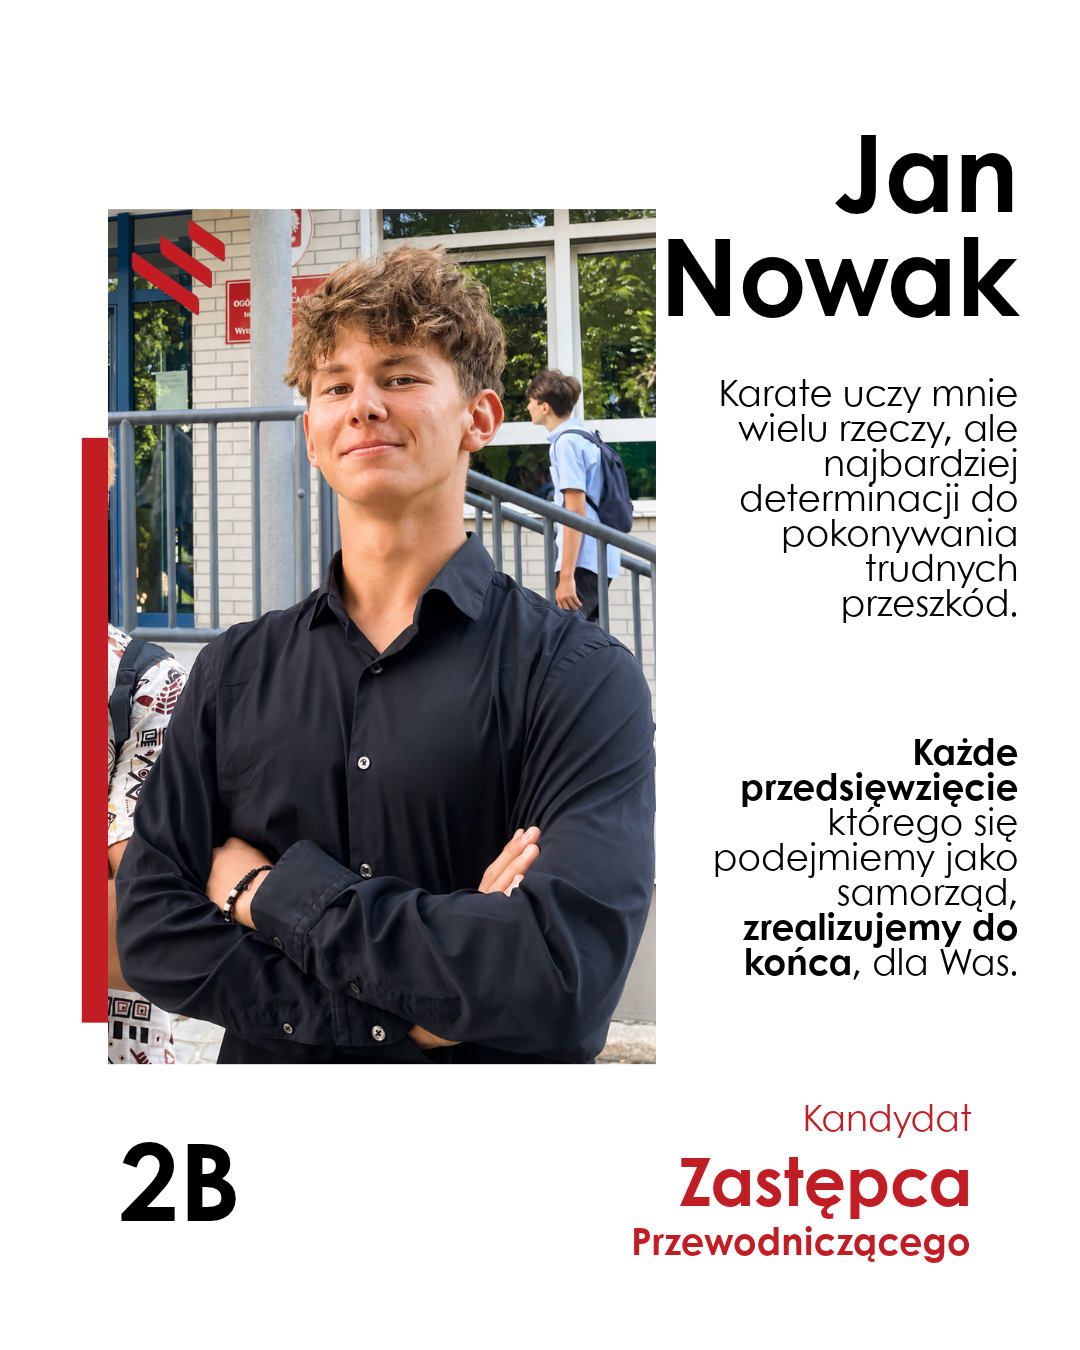
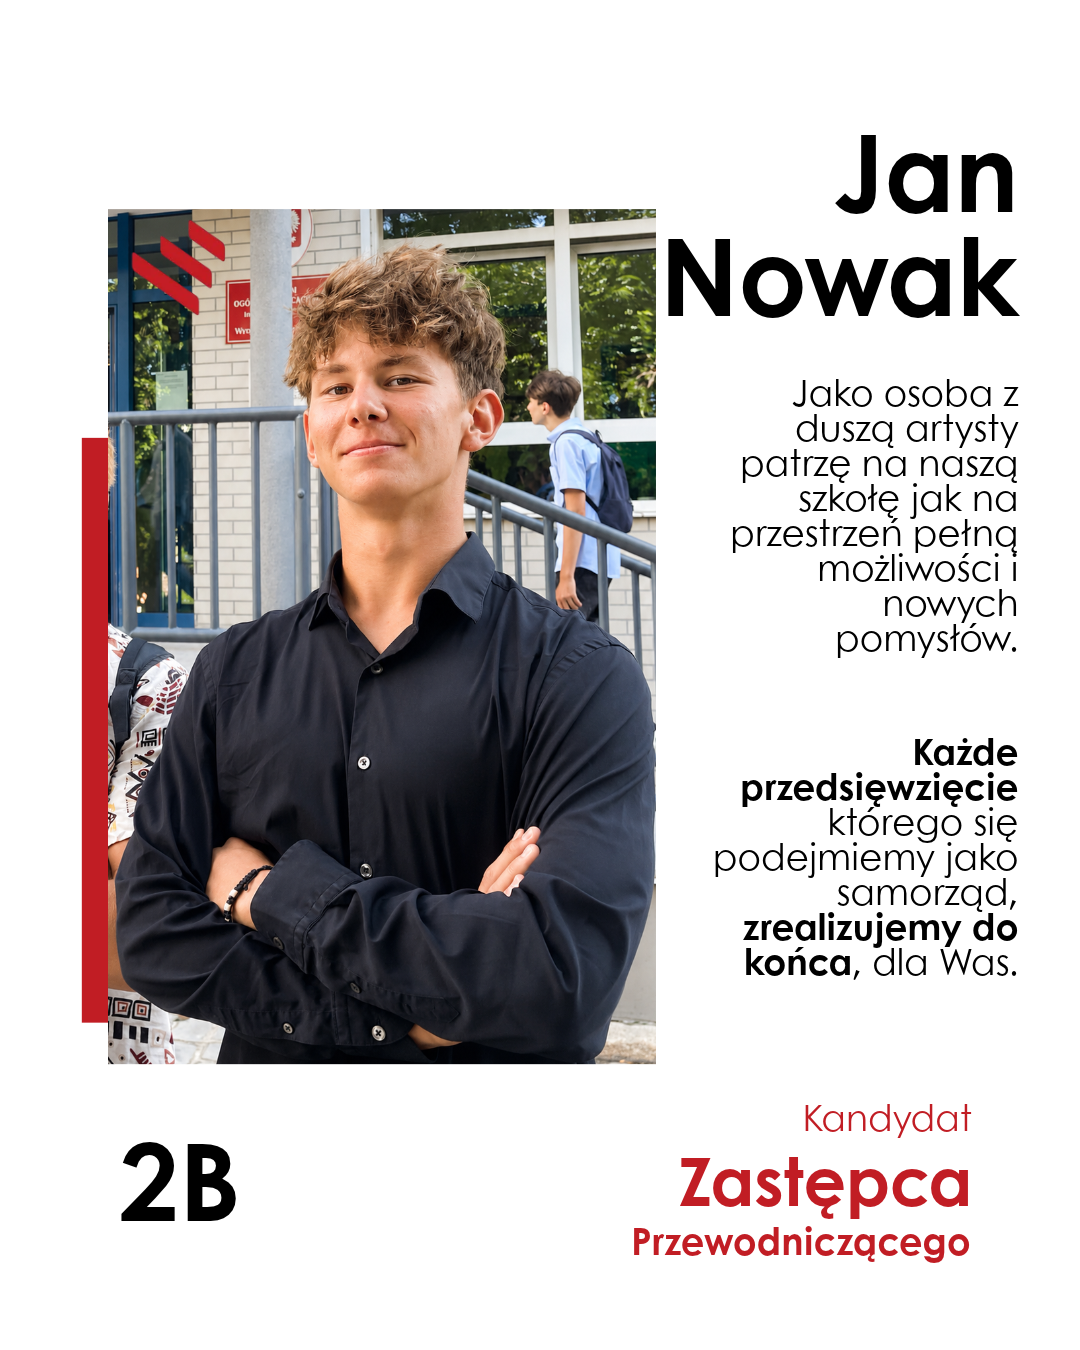
fixy kilka

Changed region(s): [[0.6722, 0.28, 0.9472, 0.4978]]

diff --git a/index.html b/index.html
@@ -336,6 +336,8 @@ a { color: inherit; }
 .footer { padding-block: 36px 44px; }
 .footer-inner { display: flex; flex-wrap: wrap; align-items: center; justify-content: space-between; gap: 18px 32px; }
 .footer-brand { display: flex; align-items: center; gap: 14px; min-width: 0; }
+.footer-links { display: flex; flex-wrap: wrap; align-items: center; gap: 18px; }
+.footer-links a { color: var(--ink); }
 .footer-brand img { width: 48px; height: 48px; flex: none; }
 .footer-brand .school-logo { width: auto; height: 60px; }
 .footer-brand p { font-size: .9rem; color: var(--muted); line-height: 1.45; }
@@ -628,6 +630,10 @@ a { color: inherit; }
[1 lines of base64/hex data omitted]
       <p><strong>Komitet wyborczy 4 dla 3</strong><br>III Liceum Ogólnokształcące im. Adama Mickiewicza we Wrocławiu</p>
     </div>
+    <nav class="footer-links" aria-label="Linki w stopce">
+      <a href="blog.html#rodo">RODO</a>
+      <a href="blog.html">Konkurs blogowy</a>
+    </nav>
     <small>Wybory do Samorządu Szkolnego · rok szkolny 2026/2027</small>
   </div>
 </footer>

diff --git a/blog.html b/blog.html
@@ -123,10 +123,15 @@
     .submission-body img { display: block; max-width: 100%; height: auto; margin-block: 12px; }
     .submission-body iframe { width: min(100%, 560px); aspect-ratio: 16 / 9; border: 0; }
     .submission small { display: block; margin-top: 12px; color: var(--muted); }
-    .footer { padding-block: 28px; border-top: 1px solid var(--line); color: var(--muted); font-size: .9rem; }
-    .footer-inner { display: flex; flex-wrap: wrap; justify-content: space-between; gap: 12px; }
-    .footer-links { display: flex; flex-wrap: wrap; gap: 18px; }
+    .footer { padding-block: 36px 44px; color: var(--muted); font-size: .9rem; }
+    .footer-inner { display: flex; flex-wrap: wrap; align-items: center; justify-content: space-between; gap: 18px 32px; }
+    .footer-brand { display: flex; align-items: center; gap: 14px; min-width: 0; }
+    .footer-mark { display: grid; place-items: center; width: 48px; height: 48px; flex: none; border: 2px solid var(--ink); color: var(--red); font: 700 1rem var(--font-display); }
+    .footer-brand p { color: var(--muted); font-size: .9rem; line-height: 1.45; }
+    .footer-brand strong { color: var(--ink); font-family: var(--font-display); font-weight: 600; }
+    .footer-links { display: flex; flex-wrap: wrap; align-items: center; gap: 18px; }
     .footer a { color: var(--ink); }
+    .footer small { color: var(--muted); font-size: .84rem; }
     .privacy { padding-block: 48px 64px; border-top: 1px solid var(--line); background: #fff; }
     .privacy h2 { margin-top: 8px; font-size: clamp(1.7rem, 3vw, 2.2rem); }
     .privacy-copy { display: grid; gap: 12px; max-width: 800px; margin-top: 16px; color: #3b3537; }
@@ -289,8 +294,8 @@
         <span class="eyebrow">Informacja o prywatności</span>
         <h2 id="rodo-title">RODO</h2>
         <div class="privacy-copy">
-          <p>W formularzu możesz podać treść wpisu, podpis lub pseudonim, klasę oraz linki do zdjęć i filmów. Podawaj tylko informacje potrzebne do udziału w konkursie i nie umieszczaj w zgłoszeniu danych innych osób bez ich zgody.</p>
-          <p>Jeśli strona ma dostęp do skrzynki konkursowej, zgłoszenie trafia do komitetu 4 dla 3 w celu przeprowadzenia konkursu i kontaktu w sprawie ewentualnej publikacji. Bez tego dostępu zgłoszenie nie jest wysyłane — możesz je skopiować i przekazać organizatorom.</p>
+          <p>W formularzu pomysłów możesz podać treść propozycji, kategorię, klasę i podpis. W zgłoszeniu blogowym możesz podać treść wpisu, podpis lub pseudonim, klasę oraz linki do zdjęć i filmów. Podawaj tylko informacje potrzebne do udziału i nie umieszczaj danych innych osób bez ich zgody.</p>
+          <p>Gdy strona ma dostęp do skrzynki konkursowej, zgłoszenia trafiają do komitetu 4 dla 3, aby rozpatrzyć pomysły lub przeprowadzić konkurs i skontaktować się z autorem w sprawie ewentualnej publikacji. Jeśli strona nie ma dostępu do bazy, zgłoszenie nie jest wysyłane i można je skopiować, by przekazać je organizatorom.</p>
           <p>Wpisywany szkic jest automatycznie przechowywany lokalnie w pamięci przeglądarki na używanym urządzeniu. Nie jest przez ten mechanizm wysyłany do komitetu. Możesz usunąć go, kasując treść formularza albo dane witryny w ustawieniach przeglądarki.</p>
           <p>W sprawie przetwarzania zgłoszenia, jego usunięcia lub realizacji praw dotyczących danych skontaktuj się z organizatorem konkursu przez komitet 4 dla 3 w III LO im. Adama Mickiewicza we Wrocławiu.</p>
         </div>
@@ -300,11 +305,15 @@
 
   <footer class="footer">
     <div class="wrap footer-inner">
-      <span>4 dla 3 · III LO im. Adama Mickiewicza we Wrocławiu</span>
+      <div class="footer-brand">
+        <span class="footer-mark" aria-hidden="true">4/3</span>
+        <p><strong>Komitet 4 dla 3</strong><br>III LO im. A. Mickiewicza · Wrocław</p>
+      </div>
       <nav class="footer-links" aria-label="Linki w stopce">
         <a href="#rodo">RODO</a>
         <a href="index.html">Wróć na stronę główną</a>
       </nav>
+      <small>Wybory do Samorządu Szkolnego · rok szkolny 2026/2027</small>
     </div>
   </footer>
 
